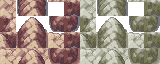
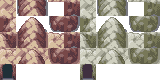
Added some spice
Small flower patches and cave entrances

diff --git a/generators/hillGenerator.py b/generators/hillGenerator.py
@@ -1,3 +1,4 @@
+import random
 from enum import Enum
 
 from mapClasses import Tile
@@ -23,7 +24,11 @@ def create_hill_edges(chunk, hill_type):
                 curr_surrounding = get_surrounding_tiles(chunk, x, y)
                 tile = get_tile_from_surrounding(curr_surrounding, HillTiles)
                 if tile is not None:
-                    chunk.set_tile("HILLS", x, y, HillTiles.specific_tile(tile, hill_type))
+                    specific_tile = HillTiles.specific_tile(tile, hill_type)
+                    if specific_tile == Tile("HILLS", 4, 0):
+                        if random.random() < 0.01:
+                            specific_tile = Tile("HILLS", 0, 4)
+                    chunk.set_tile("HILLS", x, y, specific_tile)
 
 
 def get_surrounding_tiles(chunk, x, y):

diff --git a/generators/plantGenerator.py b/generators/plantGenerator.py
@@ -69,8 +69,7 @@ def grow_grass(chunk, coverage):
 
 
 def random_grass():
-    grass_type = random.randint(0, 7)
-    return Tile("NATURE", 0, grass_type)
+    return Tile("NATURE", 0, random.randint(0, 7)) if random.random() < 0.99 else Tile("NATURE", 2, 3)
 
 
 def random_tall_grass():
@@ -79,7 +78,7 @@ def random_tall_grass():
     if sne_type == 1 and random.random() < 0.85:
         return Tile("NATURE", 1, 0)
     # Turn 0.5 percent of the tall grass into tall grass with a hidden item
-    if sne_type == 0 and random.random() < 0.005:
+    elif sne_type == 0 and random.random() < 0.005:
         return Tile("NATURE", 1, 4)
     return Tile("NATURE", 1, sne_type)
 
